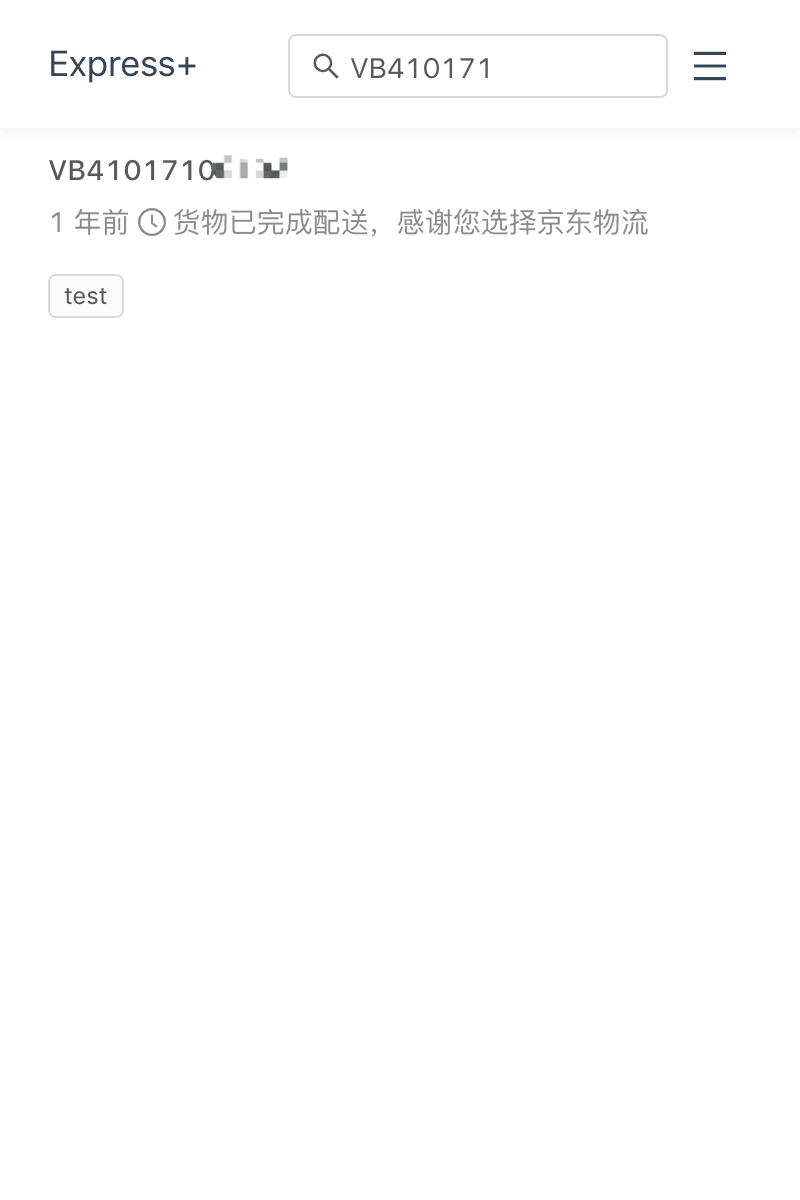
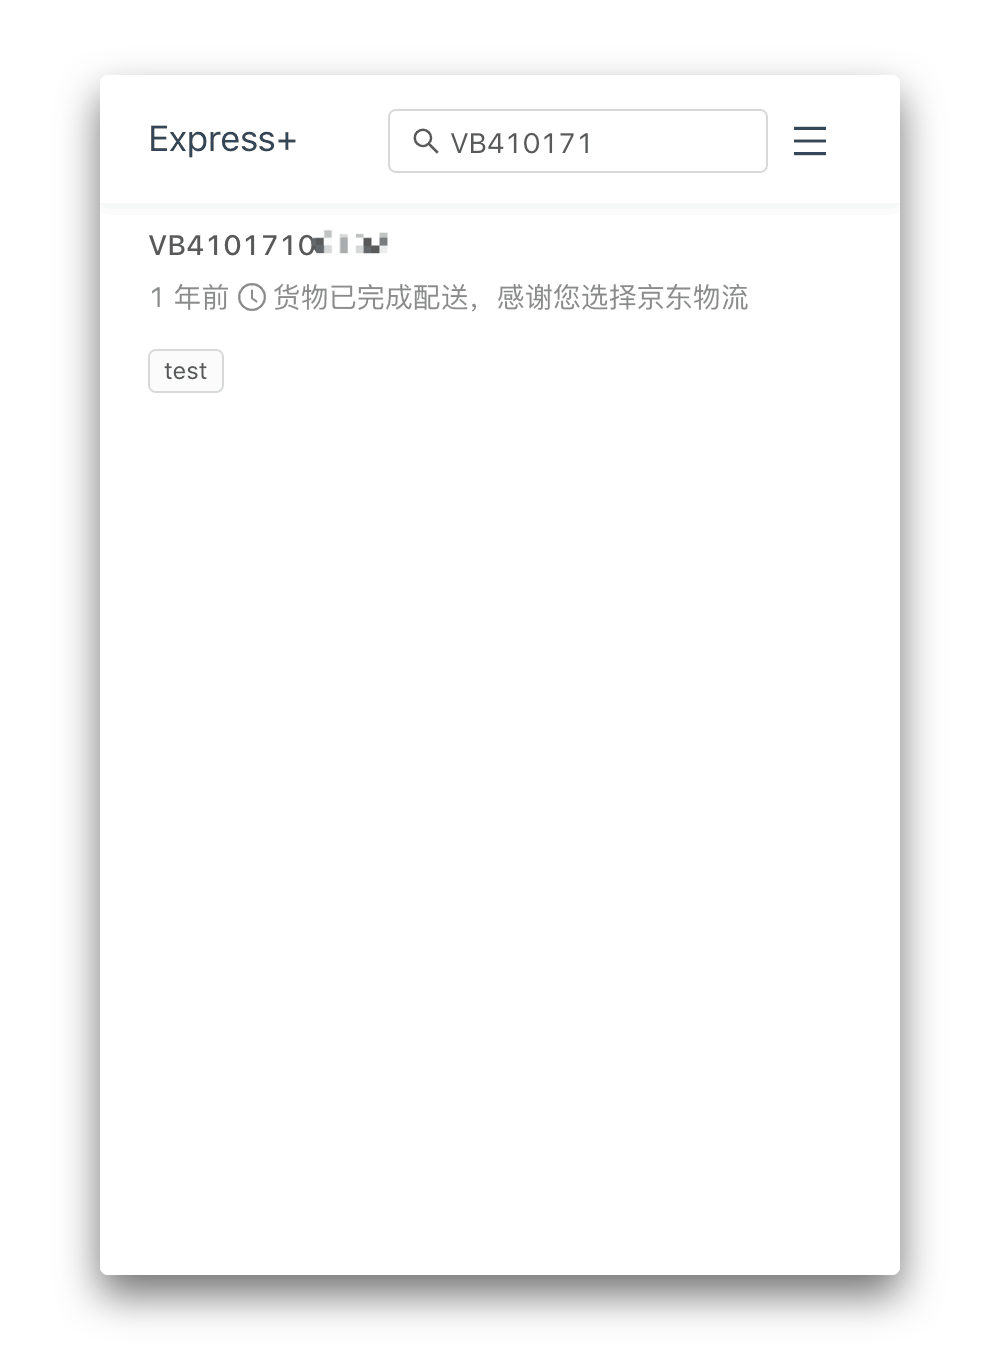
Update screenshots

diff --git a/README.md b/README.md
@@ -31,9 +31,11 @@
 
 ## Screenshots
 
-<img src='./screenshots/1.png' width=200 height=300 inline>
-<img src='./screenshots/2.png' width=200 height=300 inline>
-<img src='./screenshots/3.png' width=200 height=300 inline>
+<div>
+  <img src='./screenshots/1.png' width=280>
+  <img src='./screenshots/2.png' width=280>
+  <img src='./screenshots/3.png' width=280>
+</div>
 
 ## Install
 
